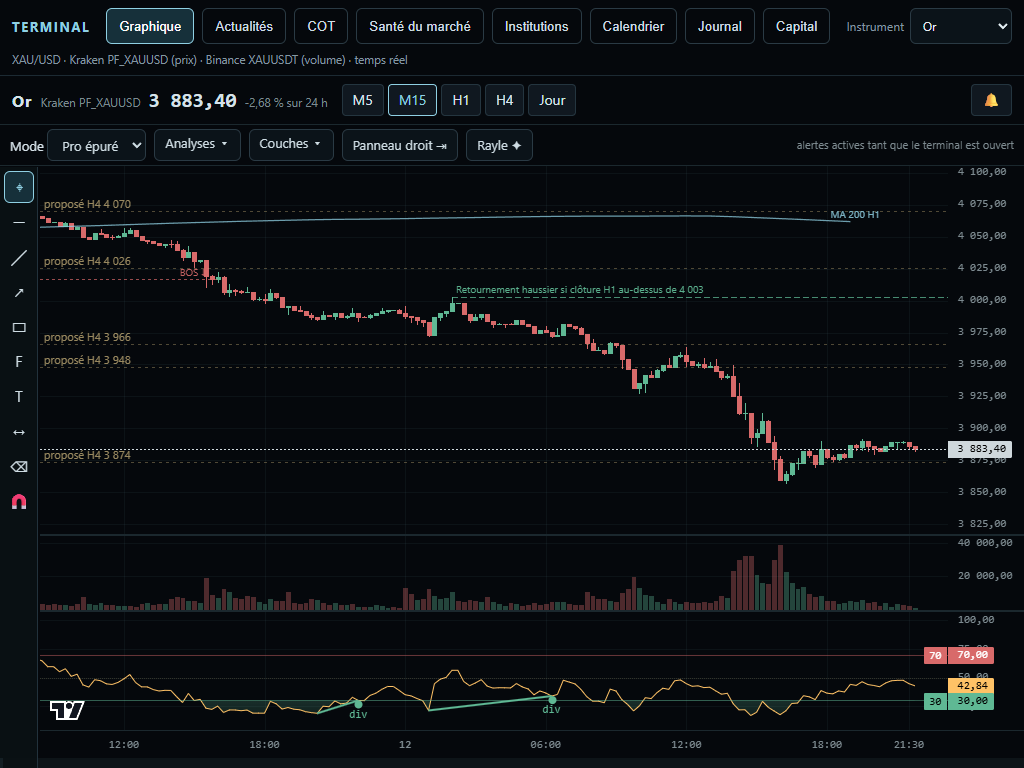
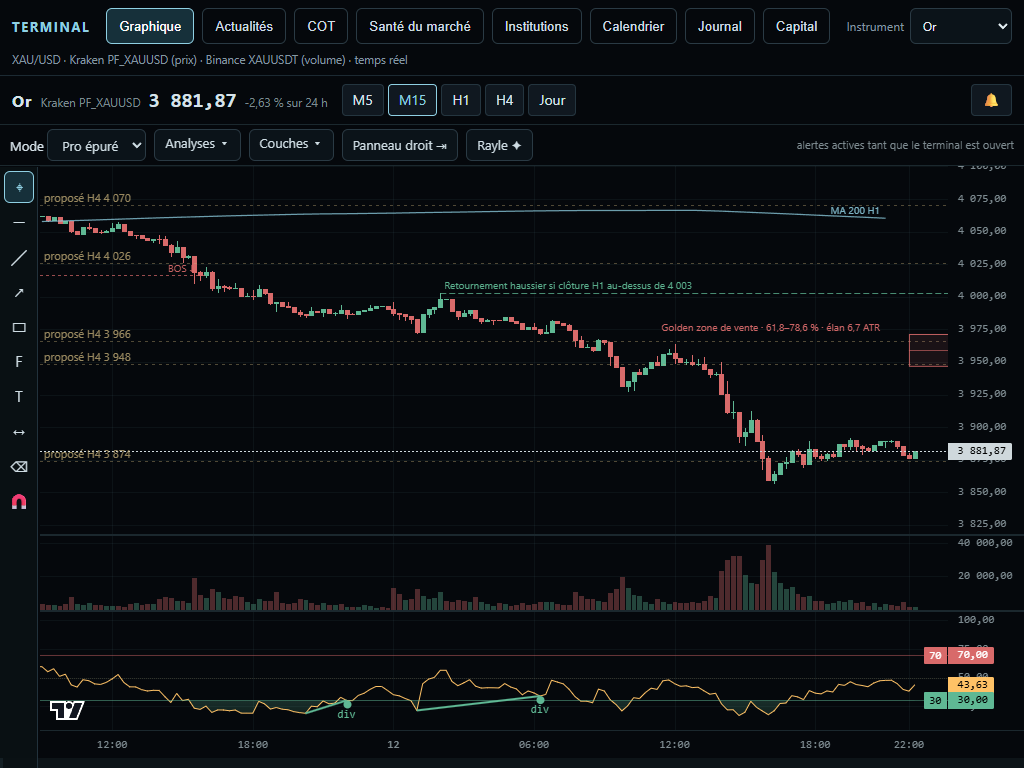
Fleches : selecteur Direct (v4) / Historique (v1 scellee) avec bandeau retrospectif, alertes toujours issues du Direct

diff --git a/agent-trading/front/or/fleches-terminal-ui.js b/agent-trading/front/or/fleches-terminal-ui.js
@@ -2,30 +2,40 @@
    Calcul : fleches-terminal-v1.js (scellé). Ici : bougies H1 closes du moteur → flèches → graphique ; registre local en ajout seul (une flèche posée n'est
    jamais déplacée ni retirée) ; interrupteur « historique 30 jours » ; infobulle au survol (date, type, résultat mesuré à 6, 12 et 24 bougies).
    Les flèches restent visibles en mode Pro épuré. Information de lecture, jamais un ordre. */
-import * as F from './fleches-simples-v4.js'; import { zonesDirect } from './zones-direct.js';   // v4 (2026-11-12) : seulement les niveaux en trait plein (structure niveaux-majeurs-v1 + zones de swing actives, ≥ 3 touches vues). Ancienne ligne : import * as F from './fleches-simples-v3.js'; import { zonesDirect } from './zones-direct.js';   // v3 : zones majeures causales (3 touches déjà vues). Ancienne ligne : import * as F from './fleches-simples-v2.js'; import { zonesDirect } from './zones-direct.js';   // v2 (2026-11-12) : flèches simples rejouées EN DIRECT (causales). Ancienne ligne : import * as F from './fleches-simples.js';   // v2 (2026-11-12) : flèches lues sur les zones H1 DESSINÉES ; v1 et terminal-v1 (scellées) restent disponibles. Ancienne ligne :    // 2026-11-12 : flèches de lecture (MA200 et gros niveaux seulement, sans grappes) ; l'ancienne règle fleches-terminal-v1 (scellée) reste disponible en mode debug
+import * as V1 from './fleches-simples.js'; import * as F from './fleches-simples-v4.js'; import { zonesDirect } from './zones-direct.js';   // v4 (2026-11-12) : seulement les niveaux en trait plein (structure niveaux-majeurs-v1 + zones de swing actives, ≥ 3 touches vues). Ancienne ligne : import * as F from './fleches-simples-v3.js'; import { zonesDirect } from './zones-direct.js';   // v3 : zones majeures causales (3 touches déjà vues). Ancienne ligne : import * as F from './fleches-simples-v2.js'; import { zonesDirect } from './zones-direct.js';   // v2 (2026-11-12) : flèches simples rejouées EN DIRECT (causales). Ancienne ligne : import * as F from './fleches-simples.js';   // v2 (2026-11-12) : flèches lues sur les zones H1 DESSINÉES ; v1 et terminal-v1 (scellées) restent disponibles. Ancienne ligne :    // 2026-11-12 : flèches de lecture (MA200 et gros niveaux seulement, sans grappes) ; l'ancienne règle fleches-terminal-v1 (scellée) reste disponible en mode debug
 
-const CLE_REG = 'rayle_or_fleches_t9', CLE_VU = 'rayle_or_fleches_t9_vu', CLE_HIST = 'rayle_or_fleches_t1_hist';
+const CLE_REG = 'rayle_or_fleches_t9', CLE_VU = 'rayle_or_fleches_t9_vu', CLE_HIST = 'rayle_or_fleches_t1_hist', CLE_MODE = 'rayle_or_fleches_mode';   // mode : 'direct' (v4, causale, par défaut) ou 'historique' (v1 scellée : rétrospective, jamais pour entrer)
+export const BANDEAU = 'Flèches rétrospectives : placées avec des informations postérieures, ne pas utiliser pour entrer.';
 const lireJ = (k, d) => { try { const v = localStorage.getItem(k); return v ? JSON.parse(v) : d; } catch (e) { return d; } };
 const ecrireJ = (k, v) => { try { localStorage.setItem(k, JSON.stringify(v)); } catch (e) { /* plein ou refusé */ } };
 const esc = s => String(s ?? '').replace(/[&<>"']/g, c => ({ '&': '&amp;', '<': '&lt;', '>': '&gt;', '"': '&quot;', "'": '&#39;' }[c]));
 const dateLongue = t => new Date(t).toLocaleString('fr-FR', { timeZone: 'Europe/Paris', weekday: 'short', day: '2-digit', month: '2-digit', hour: '2-digit', minute: '2-digit' });
 
 export function monterFlechesTerminal(T, { maintenant = () => Date.now(), pret = Promise.resolve() } = {}) {
-  const R = T.R, E = { registre: lireJ(CLE_REG, null), hist: lireJ(CLE_HIST, true), cle: '', liste: [], dernier: null, nouvelles: 0 };
+  const R = T.R, E = { registre: lireJ(CLE_REG, null), hist: lireJ(CLE_HIST, true), mode: lireJ(CLE_MODE, 'direct') === 'historique' ? 'historique' : 'direct', retro: [], cle: '', liste: [], dernier: null, nouvelles: 0 };
   const premier = E.registre === null; if (premier) E.registre = [];
   const barre = R.querySelector('[data-graph-barre]');
   if (barre && !barre.querySelector('[data-ft]')) {
     const l = document.createElement('label'); l.className = 'tor-gb tor-ft'; l.dataset.ft = ''; l.title = 'Repères de lecture posés à la clôture de la bougie H1 : MA200 (cassure confirmée, retest, rebond) et gros supports / résistances (2 bougies sur le niveau, rebond confirmé). Jamais redessinés, jamais un ordre ni une promesse de gain.';
     l.innerHTML = '<input type="checkbox" data-ft-hist> Flèches : historique 30 j <b data-ft-n></b>'; barre.appendChild(l);
   }
+  function placerMode() { const l = R.querySelector('.tor-ft-m'), h = R.querySelector('.tp-haut'); if (l && h && l.parentNode !== h) h.insertBefore(l, h.querySelector('.tp-doux')); }   // dans la ligne du haut du Terminal (visible en mode Pro épuré)
+  if ((barre || R.querySelector('.tp-haut')) && !R.querySelector('[data-ft-mode]')) {
+    const l = document.createElement('label'); l.className = 'tor-gb tor-ft-m'; l.title = 'Direct : flèches causales (v4), posées à la bougie de confirmation, comme en temps réel (alertes vocales). Historique : flèches rétrospectives (v1), placées avec des informations postérieures : à regarder, jamais pour entrer.';
+    l.innerHTML = 'Flèches <select data-ft-mode><option value="direct">Direct</option><option value="historique">Historique</option></select>'; (barre || R.querySelector('.tp-haut')).appendChild(l); placerMode();
+  }
+  const choix = R.querySelector('[data-ft-mode]'); if (choix) { choix.value = E.mode; choix.addEventListener('change', () => api.fixerMode(choix.value)); }
   const caseHist = R.querySelector('[data-ft-hist]'); if (caseHist) { caseHist.checked = !!E.hist; caseHist.addEventListener('change', () => { E.hist = caseHist.checked; ecrireJ(CLE_HIST, E.hist); afficher(); }); }
   const bulle = document.createElement('div'); bulle.className = 'tor-ft-bulle'; bulle.hidden = true; bulle.setAttribute('role', 'tooltip');
   const zone = R.querySelector('[data-graph]'); if (zone) { zone.style.position = zone.style.position || 'relative'; zone.appendChild(bulle); }
+  const bandeau = document.createElement('div'); bandeau.className = 'tor-ft-bandeau'; bandeau.dataset.ftBandeau = ''; bandeau.setAttribute('role', 'status'); bandeau.textContent = BANDEAU;
+  bandeau.style.cssText = 'position:absolute;top:0;left:0;right:0;z-index:6;padding:4px 8px;font:600 12px system-ui,sans-serif;text-align:center;background:rgba(201,178,122,.92);color:#10161b;pointer-events:none';
+  bandeau.hidden = E.mode !== 'historique'; if (zone) zone.appendChild(bandeau);
 
   /* arrows visibles : tout l'historique des 30 jours, ou seulement les dernières 24 heures quand l'interrupteur est coupé */
-  const visibles = () => { const n = maintenant(), de = n - (E.hist ? 30 : 1) * 86400e3; return E.liste.filter(f => !f.masquee && f.tCloture >= de && (f.levelId === 'MA200' || f.niveauType === 'structure' || !E.ids || E.ids.some(z => z.bas <= f.zoneHaut + 2 && z.haut >= f.zoneBas - 2))); };   // jamais de flèche sans niveau dessiné
+  const visibles = () => { const n = maintenant(), de = n - (E.hist ? 30 : 1) * 86400e3; if (E.mode === 'historique') return E.retro.filter(f => !f.masquee && f.tCloture >= de); return E.liste.filter(f => !f.masquee && f.tCloture >= de && (f.levelId === 'MA200' || f.niveauType === 'structure' || !E.ids || E.ids.some(z => z.bas <= f.zoneHaut + 2 && z.haut >= f.zoneBas - 2))); };   // jamais de flèche sans niveau dessiné
   function afficher() {
-    const V = visibles(); try { T.graph.flechesTerminal(V); } catch (e) { /* graphique pas prêt */ }
+    bandeau.hidden = E.mode !== 'historique'; const V = visibles(); try { T.graph.flechesTerminal(V); } catch (e) { /* graphique pas prêt */ }
     const b = R.querySelector('[data-ft-n]'); if (b) b.textContent = `(${V.length})`;
     ancrerBulle(V);
   }
@@ -46,9 +56,11 @@ export function monterFlechesTerminal(T, { maintenant = () => Date.now(), pret =
     E.registre = F.fusionnerRegistre(E.registre, r.fleches);
     for (const f of E.registre) if (!avant.has(f.id) && !f.masquee && !premier && f.tCloture > maintenant() - 2 * 3600e3) { E.nouvelles++; try { T.notifier(`Flèche ${f.dir > 0 ? 'haussière' : 'baissière'} : ${f.nom} (à la clôture de la bougie H1).`, { niveau: 'fort', dit: true }); } catch (e) { /* */ } }
     ecrireJ(CLE_REG, E.registre.slice(-600));
-    E.liste = E.registre;
+    E.liste = E.registre; retro(H1, zones);
     return true;
   }
+  /* mode Historique : règle v1 scellée appliquée aux zones FINALES (informations postérieures) ; calculé à part, ne touche ni au registre ni aux alertes */
+  function retro(H1, zones) { try { const r = V1.calculer(H1, zones, { maintenant: maintenant(), jours: 30 }); E.retro = r.fleches || []; } catch (e) { E.retro = []; } }
   /* infobulle : survol d'une flèche (bougie du graphique qui porte la marque) */
   let abonne = false, parTemps = new Map();
   function ancrerBulle(V) {
@@ -57,13 +69,16 @@ export function monterFlechesTerminal(T, { maintenant = () => Date.now(), pret =
     ch.subscribeCrosshairMove(p => {
       if (!p || !p.point || p.time == null) { bulle.hidden = true; return; }
       const L = parTemps.get(p.time); if (!L || !L.length) { bulle.hidden = true; return; }
+      if (E.mode === 'historique') { bulle.innerHTML = '<div class="tor-ft-f"><b>Flèche rétrospective</b><span>' + esc(dateLongue(L[0].tCloture)) + '</span><span>' + esc(BANDEAU) + '</span></div>'; bulle.hidden = false; const w0 = bulle.offsetWidth || 260; bulle.style.left = Math.max(4, Math.min(p.point.x + 12, (zone ? zone.clientWidth : 600) - w0 - 4)) + 'px'; bulle.style.top = Math.max(4, p.point.y - 20) + 'px'; return; }
       bulle.innerHTML = L.map(f => `<div class="tor-ft-f"><b>${esc(f.nom)}</b><span>${esc(dateLongue(f.tCloture))} (clôture de la bougie H1)</span>${F.detail(f).concat(F.textesRes(f.resultat)).map(x => `<span>${esc(x)}</span>`).join('')}</div>`).join('') + '<small>Description de ce qui s’est passé, jamais un ordre.</small>';
       bulle.hidden = false; const w = bulle.offsetWidth || 260; bulle.style.left = Math.max(4, Math.min(p.point.x + 12, (zone ? zone.clientWidth : 600) - w - 4)) + 'px'; bulle.style.top = Math.max(4, p.point.y - 20) + 'px';
     });
   }
   const api = {
-    maj() { try { if (calculer()) afficher(); else if (!E.liste.length) afficher(); } catch (e) { console.warn('flèches du Terminal :', e.message); } },
-    etat: () => ({ n: E.liste.length, visibles: visibles().length, hist: E.hist, raison: E.raison || null, nouvelles: E.nouvelles, barres: E.n || 0 }),
+    maj() { try { placerMode(); if (calculer()) afficher(); else if (!E.liste.length) afficher(); } catch (e) { console.warn('flèches du Terminal :', e.message); } },
+    fixerMode(m) { E.mode = m === 'historique' ? 'historique' : 'direct'; ecrireJ(CLE_MODE, E.mode); if (choix) choix.value = E.mode; if (E.mode === 'historique' && !E.retro.length) { try { retro(T.h1 ? T.h1() : [], T.graph.zonesH1 ? T.graph.zonesH1() : []); } catch (e) { /* */ } } afficher(); },
+    mode: () => E.mode, direct: () => E.liste.slice(), retro: () => E.retro.slice(),
+    etat: () => ({ mode: E.mode, bandeau: !bandeau.hidden, n: E.liste.length, visibles: visibles().length, hist: E.hist, raison: E.raison || null, nouvelles: E.nouvelles, barres: E.n || 0 }),
     liste: () => E.liste.slice(), visibles, bilan: () => F.bilan(T.h1 ? T.h1() : [], E.liste.filter(f => !f.masquee)), fixerHistorique(v) { E.hist = !!v; ecrireJ(CLE_HIST, E.hist); if (caseHist) caseHist.checked = E.hist; afficher(); }
   };
   pret.then(() => api.maj());

diff --git a/PROGRESS.md b/PROGRESS.md
@@ -1,4 +1,9 @@
-# NON FUSIONNÉ (2026-11-12, branche fleches-v4) : critère (b) à moitié rempli — le VAH mensuel 4 146 a ses flèches rouges (5 nov. 04:00, 9 nov. 21:00) mais la résistance 4 131–4 144 n'en a AUCUNE en novembre (plus de zone active à ≥ 3 touches sur cette série), et un achat à 01:00 UTC le 12 nov. (support 3 963–3 972, 5 touches) précède la chute ; rien n'a été réglé pour forcer ces cas. Décision de fusion laissée à Justin.
+# Flèches : deux modes (2026-11-12, branche fleches-modes) — FUSIONNÉ, fleches-v4 fusionnée dans main
+- Sélecteur « Flèches » dans la ligne du haut du Terminal : **Direct** (défaut, v4 causale) ou **Historique** (v1 scellée sur les zones finales, informations postérieures). Un seul jeu affiché à la fois ; mode mémorisé (`rayle_or_fleches_mode`) ; bandeau permanent en mode Historique ; alertes vocales et registre toujours issus du Direct ; infobulle d'une flèche rétrospective = simple avertissement. Aucune règle de v1 ni de v4 modifiée.
+- Tests : Chrome `agent-trading/tests/fleches-modes-chrome.mjs` (1600/1024/390 + alertes en mode Historique), `fleches-v4-chrome.mjs`, Node v4 et v1. Captures `outils-restructuration/captures/fleches-mode-{direct,historique}-*.png`.
+- Rappel : la v4 garde deux limites connues (pas de flèche rouge sur la zone 4 131–4 144 en novembre ; achat 01:00 UTC le 12 nov. avant la chute).
+
+# (fleches-v4, fusionnée sur demande de Justin) critère (b) à moitié rempli — le VAH mensuel 4 146 a ses flèches rouges (5 nov. 04:00, 9 nov. 21:00) mais la résistance 4 131–4 144 n'en a AUCUNE en novembre (plus de zone active à ≥ 3 touches sur cette série), et un achat à 01:00 UTC le 12 nov. (support 3 963–3 972, 5 touches) précède la chute ; rien n'a été réglé pour forcer ces cas. Décision de fusion laissée à Justin.
 # Flèches simples v4 (2026-11-12) : seulement les niveaux en trait plein
 - `fleches-simples-v4.js` (scellé, v3 intacte) : niveaux surveillés = structure `niveaux-majeurs-v1` (VAH/VAL/POC hebdo et mensuel, haut/bas semaine et mois ; valeur figée de la période précédente) + zones de swing ACTIVES (trait plein) à ≥ 3 touches affichées ET déjà vues. Exclus : traces en pointillé, ronds, veille, « proposé H4 », liquidité.
 - Résultat Kraken : v3 36 (max 27/600), v4 35 (max 25/600) dont 5 sur structure et 23 sur swing ; plafond 30 non atteint ; MA200 du 10 nov. présente ; 0 achat 6 h–19 h UTC le 12 nov.
